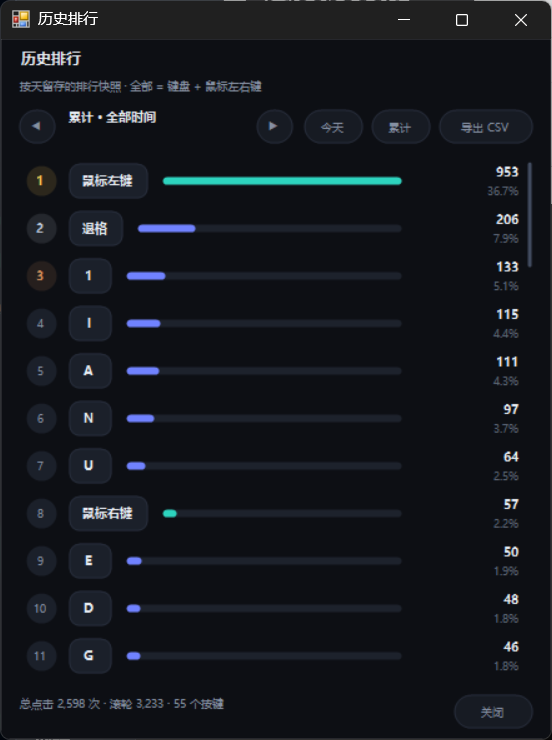
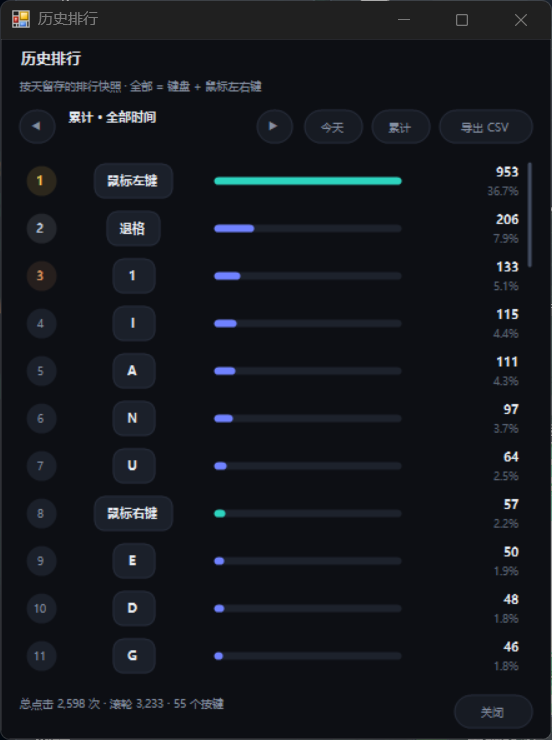
fix: 排行榜按键列居中、进度条起点对齐
- RankList 固定标签列并对齐进度条起点，避免首行标题较长时错位

- docs 截图更新为今日视图 + 对齐后的列表

diff --git a/src/RankList.cs b/src/RankList.cs
@@ -272,9 +272,11 @@ namespace KeyRank
                 badge, rc, Theme.CenterAll);
 
             Size labelSize = TextRenderer.MeasureText(stat.Label, Theme.BoldFont);
-            int capW = Math.Min(S(128), Math.Max(S(34), labelSize.Width + S(16)));
+            int capColumn = S(104);
+            int capW = Math.Min(S(96), Math.Max(S(34), labelSize.Width + S(16)));
             int capH = S(28);
-            Rectangle cap = new Rectangle(S(40), row.Y + (row.Height - capH) / 2, capW, capH);
+            int capX = S(40) + (capColumn - capW) / 2;
+            Rectangle cap = new Rectangle(capX, row.Y + (row.Height - capH) / 2, capW, capH);
             Theme.FillRound(g, cap, S(8), Color.FromArgb(27, 32, 42));
             Theme.StrokeRound(g, cap, S(8), Theme.Stroke);
             TextRenderer.DrawText(g, stat.Label, Theme.BoldFont, cap, Theme.Text, Theme.CenterAll);
@@ -288,7 +290,7 @@ namespace KeyRank
             Rectangle pctRect = new Rectangle(rightX, row.Y + row.Height / 2 + S(1), countW, S(13));
             TextRenderer.DrawText(g, pct.ToString("0.0") + "%", Theme.SmallFont, pctRect, Theme.Dim, Theme.RightCenter);
 
-            int barX = cap.Right + S(12);
+            int barX = S(40) + capColumn + S(12);
             int barRight = row.Width - countW - S(18);
             if (barRight - barX > S(24))
             {
